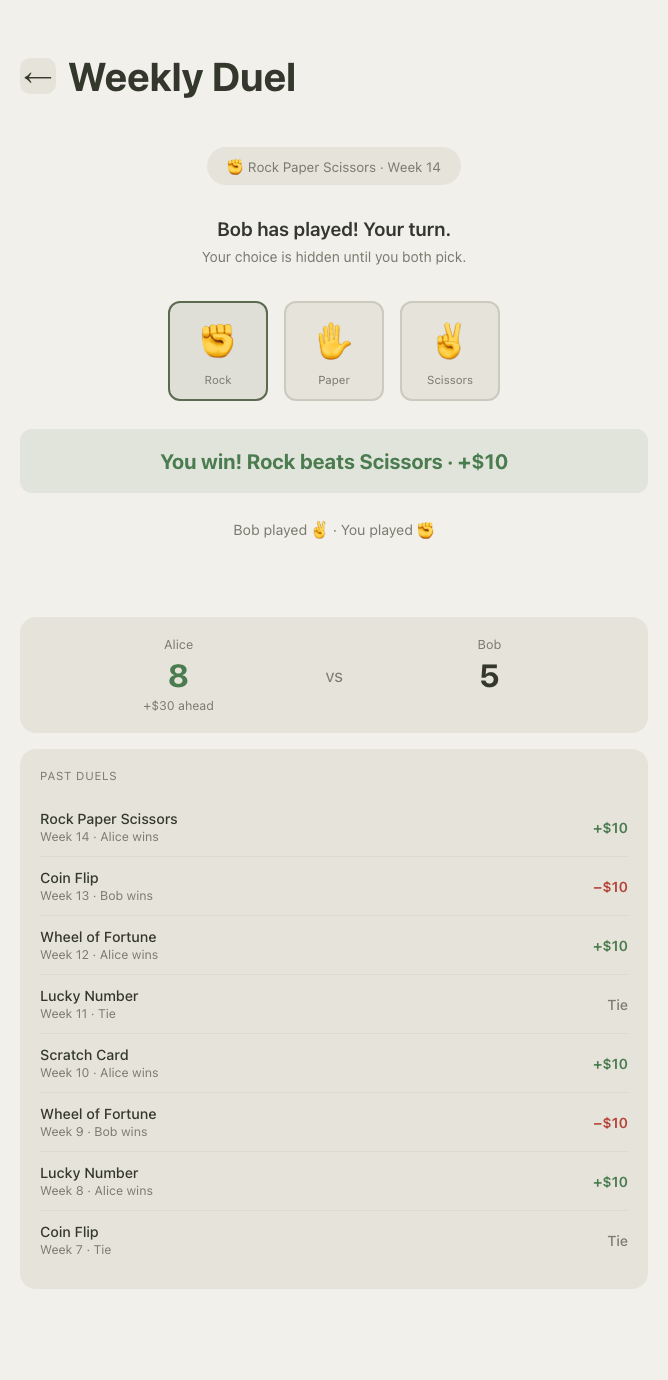
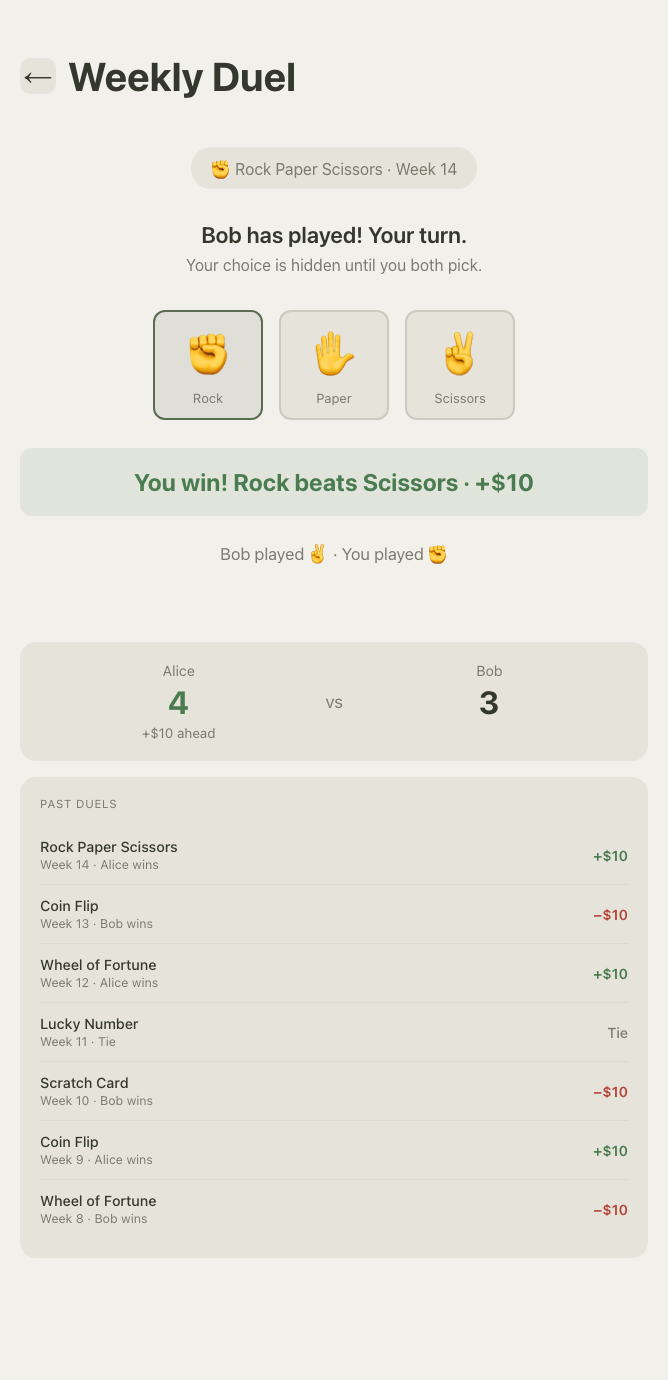
docs: update duel screenshot — 4-3 score, fewer duels, larger text

diff --git a/duel-screenshot.html b/duel-screenshot.html
@@ -8,27 +8,27 @@
   .page { padding: 52px 20px 40px; }
   .game-badge {
     display: inline-block; background: var(--surface); border-radius: 20px;
-    padding: 8px 20px; font-size: 0.85rem; color: var(--text-muted); margin-bottom: 32px;
+    padding: 8px 20px; font-size: 1rem; color: var(--text-muted); margin-bottom: 32px;
   }
   .duel-game { text-align: center; margin-bottom: 24px; }
-  .duel-game .lead { font-size: 1.2rem; font-weight: 600; margin-bottom: 8px; }
-  .duel-game .sub { font-size: 0.875rem; color: var(--text-muted); margin-bottom: 36px; }
-  .rps-choice { flex-direction: column; gap: 6px; height: 100px; width: 100px; font-size: 2.4rem; }
-  .rps-choice span { font-size: 0.72rem; color: var(--text-muted); }
+  .duel-game .lead { font-size: 1.4rem; font-weight: 600; margin-bottom: 8px; }
+  .duel-game .sub { font-size: 1rem; color: var(--text-muted); margin-bottom: 36px; }
+  .rps-choice { flex-direction: column; gap: 6px; height: 110px; width: 110px; font-size: 2.8rem; }
+  .rps-choice span { font-size: 0.82rem; color: var(--text-muted); }
   .rps-choices { gap: 16px; margin: 0 0 28px; }
-  .duel-result { font-size: 1.3rem; padding: 20px 24px; margin: 0 0 24px; }
-  .reveal { font-size: 0.9rem; color: var(--text-muted); margin-bottom: 32px; }
+  .duel-result { font-size: 1.5rem; padding: 20px 24px; margin: 0 0 24px; }
+  .reveal { font-size: 1.05rem; color: var(--text-muted); margin-bottom: 32px; }
   .duel-score-card {
     display: flex; align-items: center; justify-content: space-between;
     background: var(--surface); border-radius: var(--radius);
     padding: 20px 24px; margin-bottom: 16px; text-align: center;
   }
   .duel-score-player { flex: 1; }
-  .duel-score-name { font-size: 0.8rem; color: var(--text-muted); margin-bottom: 4px; }
+  .duel-score-name { font-size: 0.9rem; color: var(--text-muted); margin-bottom: 4px; }
   .duel-score-val { font-size: 2rem; font-weight: 700; }
   .duel-score-val.winning { color: var(--green); }
   .duel-score-vs { font-size: 1.1rem; color: var(--text-muted); padding: 0 12px; }
-  .duel-score-note { font-size: 0.78rem; color: var(--text-muted); margin-top: 4px; min-height: 1em; }
+  .duel-score-note { font-size: 0.85rem; color: var(--text-muted); margin-top: 4px; min-height: 1em; }
   .duel-history-section { background: var(--surface); border-radius: var(--radius); padding: 20px; margin-bottom: 24px; }
   .duel-history-label { font-size: 0.72rem; letter-spacing: 0.06em; text-transform: uppercase; color: var(--text-muted); margin-bottom: 16px; }
   .history-row { display: flex; justify-content: space-between; align-items: center; padding: 12px 0; border-bottom: 1px solid var(--surface-2); font-size: 0.9rem; }
@@ -66,13 +66,13 @@
   <div class="duel-score-card">
     <div class="duel-score-player">
       <div class="duel-score-name">Alice</div>
-      <div class="duel-score-val winning">8</div>
-      <div class="duel-score-note">+$30 ahead</div>
+      <div class="duel-score-val winning">4</div>
+      <div class="duel-score-note">+$10 ahead</div>
     </div>
     <div class="duel-score-vs">vs</div>
     <div class="duel-score-player">
       <div class="duel-score-name">Bob</div>
-      <div class="duel-score-val">5</div>
+      <div class="duel-score-val">3</div>
       <div class="duel-score-note">&nbsp;</div>
     </div>
   </div>
@@ -96,20 +96,16 @@
       <div class="result-tie">Tie</div>
     </div>
     <div class="history-row">
-      <div><div class="history-game">Scratch Card</div><div class="history-date">Week 10 · Alice wins</div></div>
-      <div class="result-win">+$10</div>
-    </div>
-    <div class="history-row">
-      <div><div class="history-game">Wheel of Fortune</div><div class="history-date">Week 9 · Bob wins</div></div>
+      <div><div class="history-game">Scratch Card</div><div class="history-date">Week 10 · Bob wins</div></div>
       <div class="result-loss">−$10</div>
     </div>
     <div class="history-row">
-      <div><div class="history-game">Lucky Number</div><div class="history-date">Week 8 · Alice wins</div></div>
+      <div><div class="history-game">Coin Flip</div><div class="history-date">Week 9 · Alice wins</div></div>
       <div class="result-win">+$10</div>
     </div>
     <div class="history-row">
-      <div><div class="history-game">Coin Flip</div><div class="history-date">Week 7 · Tie</div></div>
-      <div class="result-tie">Tie</div>
+      <div><div class="history-game">Wheel of Fortune</div><div class="history-date">Week 8 · Bob wins</div></div>
+      <div class="result-loss">−$10</div>
     </div>
   </div>
 </div>
